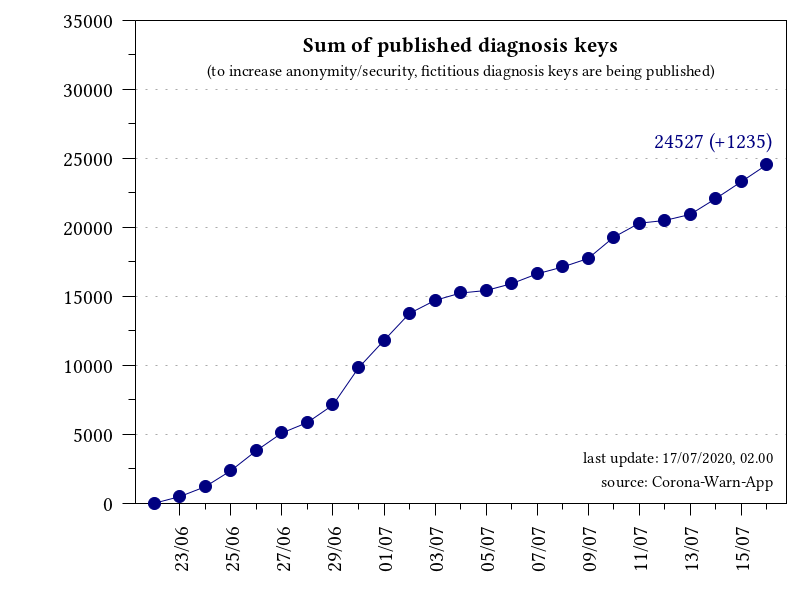
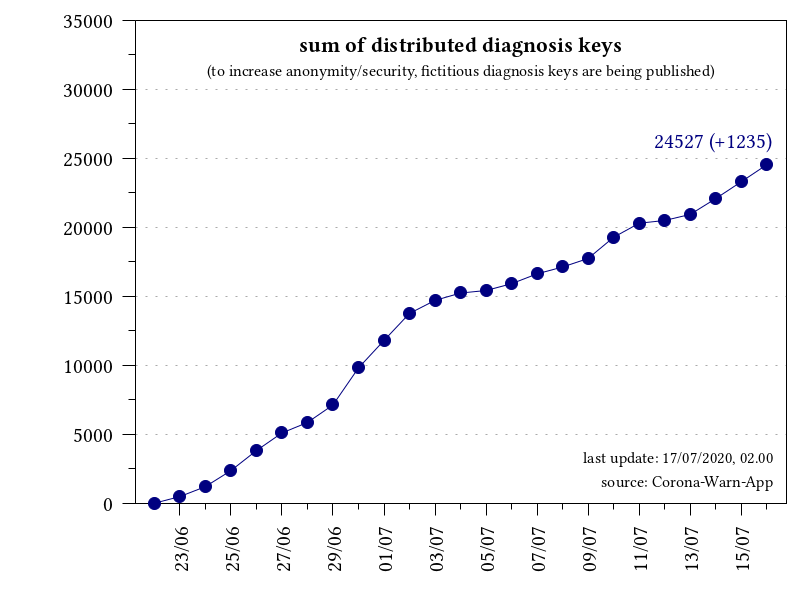
updated translations

Changed region(s): [[0.375, 0.06, 0.7812, 0.09]]

diff --git a/README.en.md b/README.en.md
@@ -42,7 +42,7 @@ per day                                    | sum
 :-----------------------------------------:|:-----------------------------------------:
  ![](plots_en/plot_num_keys_submitted.png) | ![](plots_en/plot_sum_keys_submitted.png)
 
-### Diagnosis keys
+### Distributed diagnosis keys
 per day                                    | sum
 :-----------------------------------------:|:-----------------------------------------:
  ![](plots_en/plot_keys.png)               | ![](plots_en/plot_keys_sum.png)
